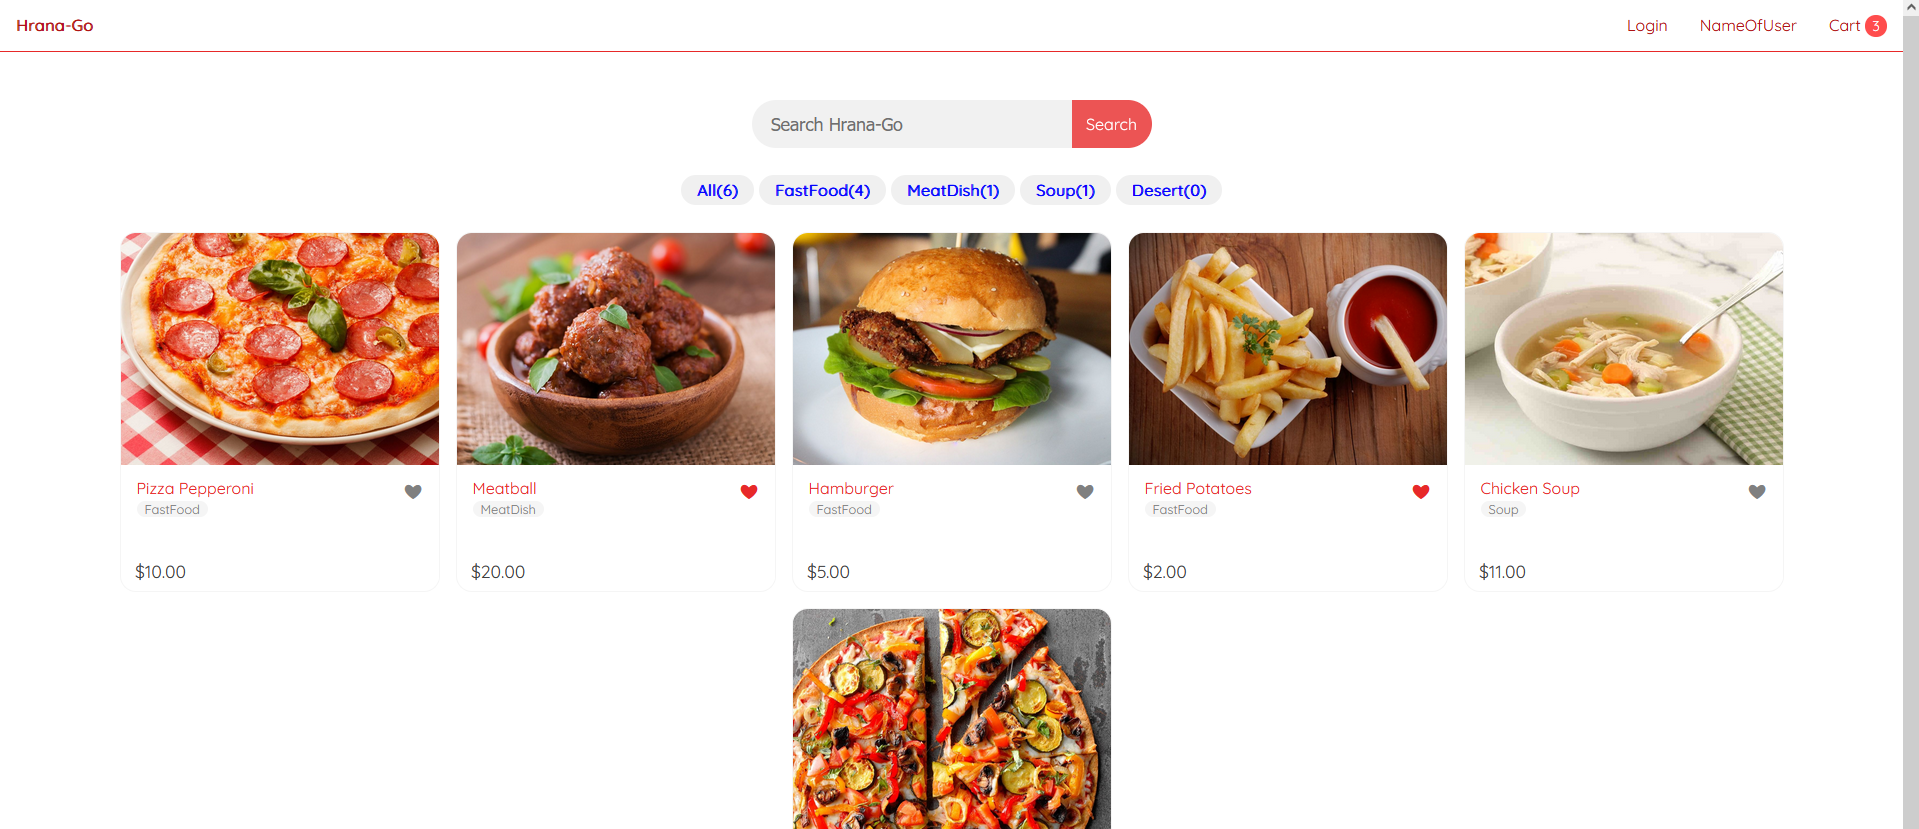
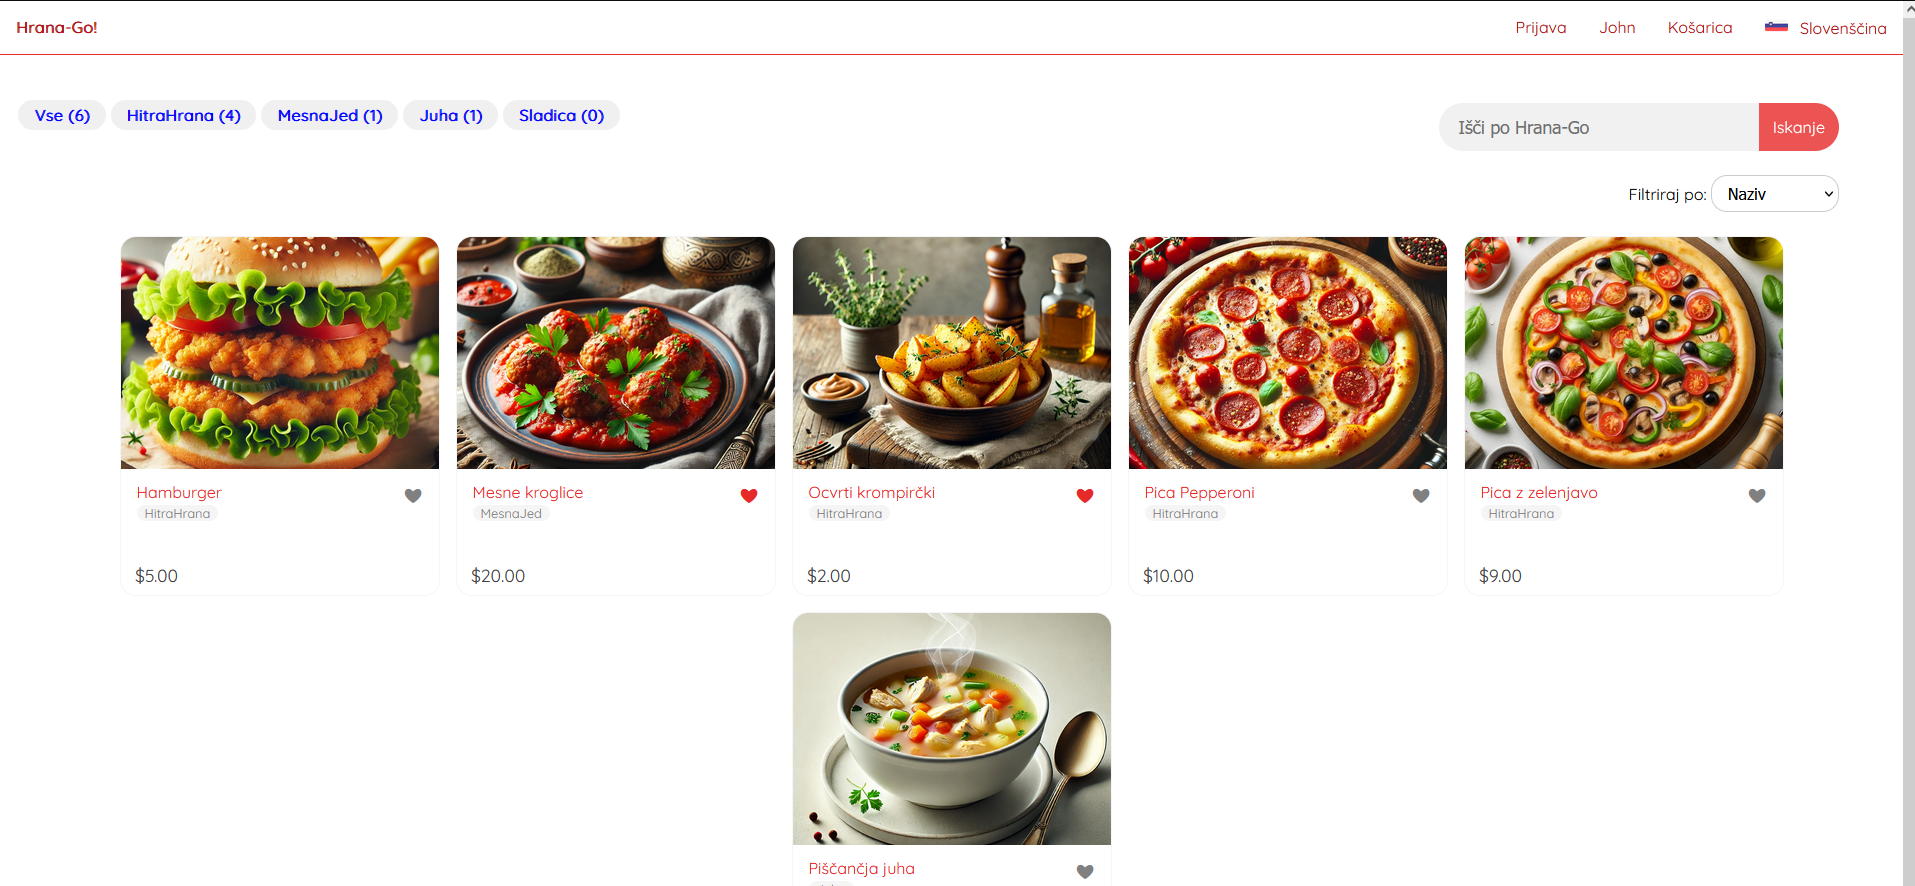
Readme spremembe vaje 23.12

diff --git a/README.md b/README.md
@@ -29,15 +29,19 @@ Projekt je razvit s pomočjo **Angular** za front-end, **ExpressJS** za back-end
 ## Zaslonski posnetki
 Trenutno stanje:
 
+- Seznam izdelkov
 - Iskanje po nazivu
 - Iskanje po kategorijah
+- Možnost filtriranja po znamki, ceni
+- Povezava do podrobnih informacij o izdelku
+- Prikaz izdelkov v košarici, skupna cena, davki
+- Uporabnik lahko izbere jezik aplikacije (označeno z zastavo in imenom jezika).
+
+
 
 <img src="trenutno.png" alt="Zaslonski posnetek aplikacije" width="600">
+<img src="kosarica.png" alt="Zaslonski posnetek aplikacije-kosarica" width="600">
 
-- Prikaz informacij o izdelku
-- Možnost dodajanja v košarico ob kliku na "Add to cart"
-
-<img src="info.png" alt="Zaslonski posnetek aplikacije info hrane" width="600">
 
 ## Namestitev
 Za namestitev in zagon projekta sledite spodnjim korakom:

diff --git a/angular/frontend/README.md b/angular/frontend/README.md
@@ -4,7 +4,7 @@ Ta projekt je bil generiran s pomočjo: [Angular CLI](https://github.com/angular
 
 ## Development strežnik
 
-Zaženi ukaz `ng serve` za development strežnik. V poljubnme brskalniku navigiraj na: `http://localhost:4200/`. Aplikacija se bo samodejno znova naložila, če spremenite kateri koli del izvorne datoteke.
+Zaženi ukaz `ng serve` za development strežnik. V poljubnem brskalniku navigiraj na: `http://localhost:4200/`. Aplikacija se bo samodejno znova naložila, če spremenite kateri koli del izvorne datoteke.
 
 ## Izgradnja
 

diff --git a/backend/README.md b/backend/README.md
@@ -1,0 +1,11 @@
+# Backend ExpressJS
+
+Ta projekt je bil generiran s pomočjo: [ExpressJS](https://expressjs.com/), verzija 4.21.2.
+
+## Development strežnik
+
+Zaženi ukaz `npm run start` za development strežnik. V poljubnem brskalniku navigiraj na: `http://localhost:5000/`. Strežnik se bo samodejno znova naložil, če spremenite kateri koli del izvorne datoteke.
+
+## Nadaljnja pomoč
+
+Če želite več pomoči za Express.js, obiščite uradno spletno stran in dokumentacijo na: [Express.js](https://expressjs.com).

diff --git a/mongodb/README.md b/mongodb/README.md
@@ -2,7 +2,7 @@
 
 Podatkovna baza je ustvarjena s pomočjo MongoDB verzija 8.0.3
 
-## Kako prekopirati bazo v lokalno okolje
+## Kako bazo postaviti v lokalnem okolju
 
 ### 1. Korak
 	- MongoDB Command Line Database Tools Download ==> MSI installer   https://www.mongodb.com/try/download/bi-connector
